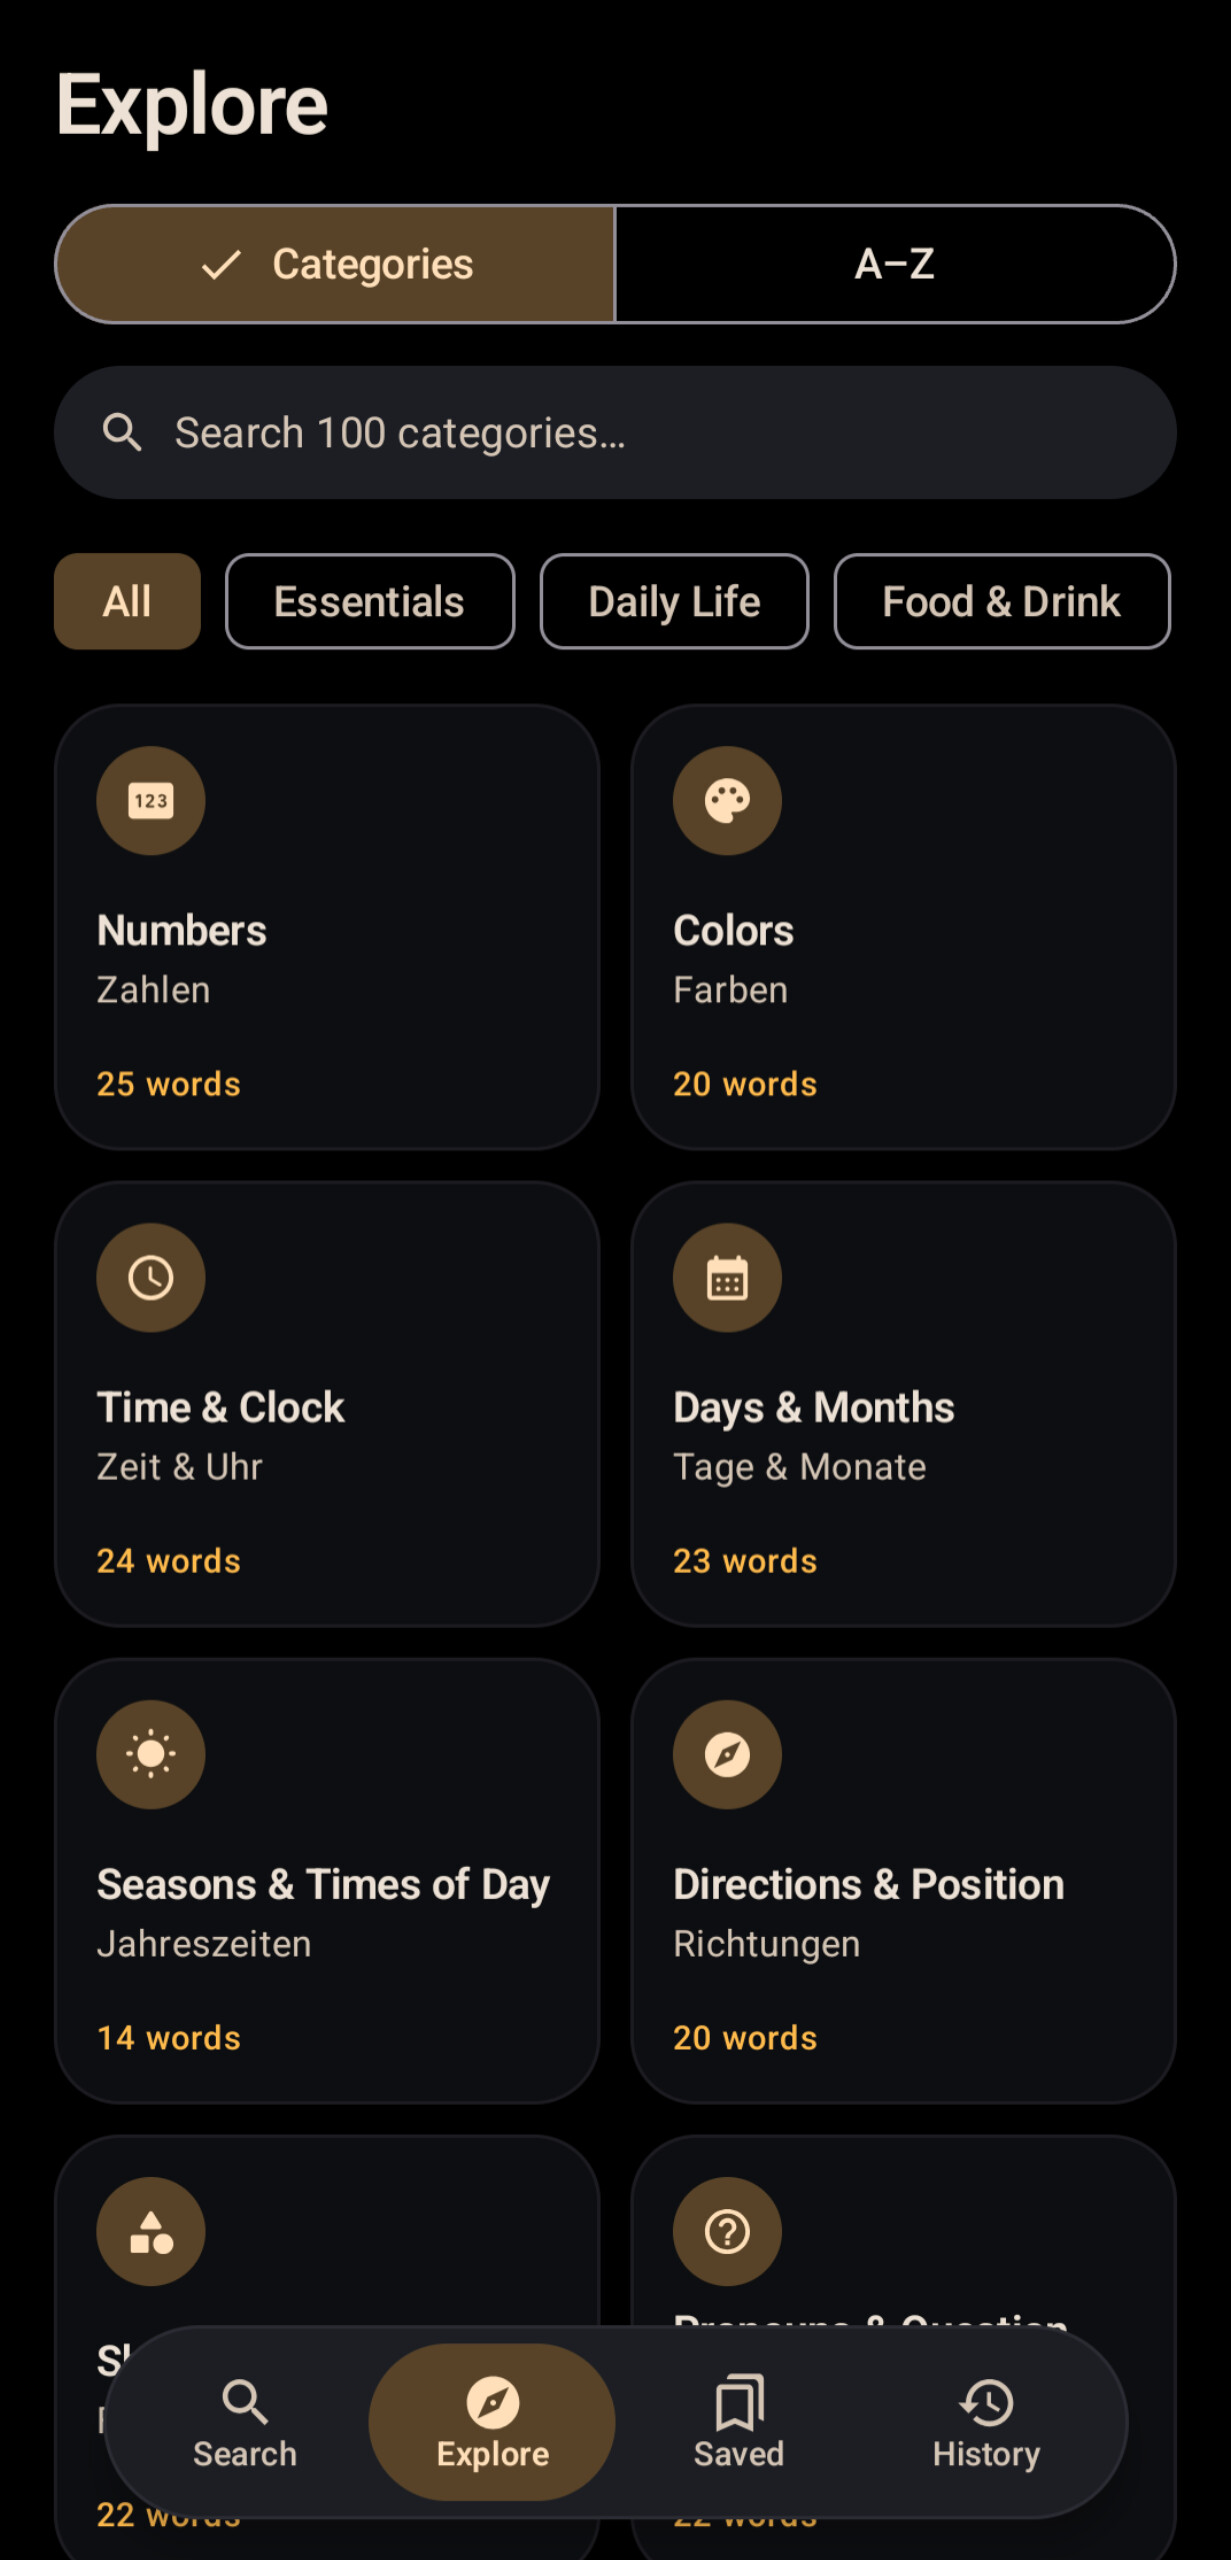
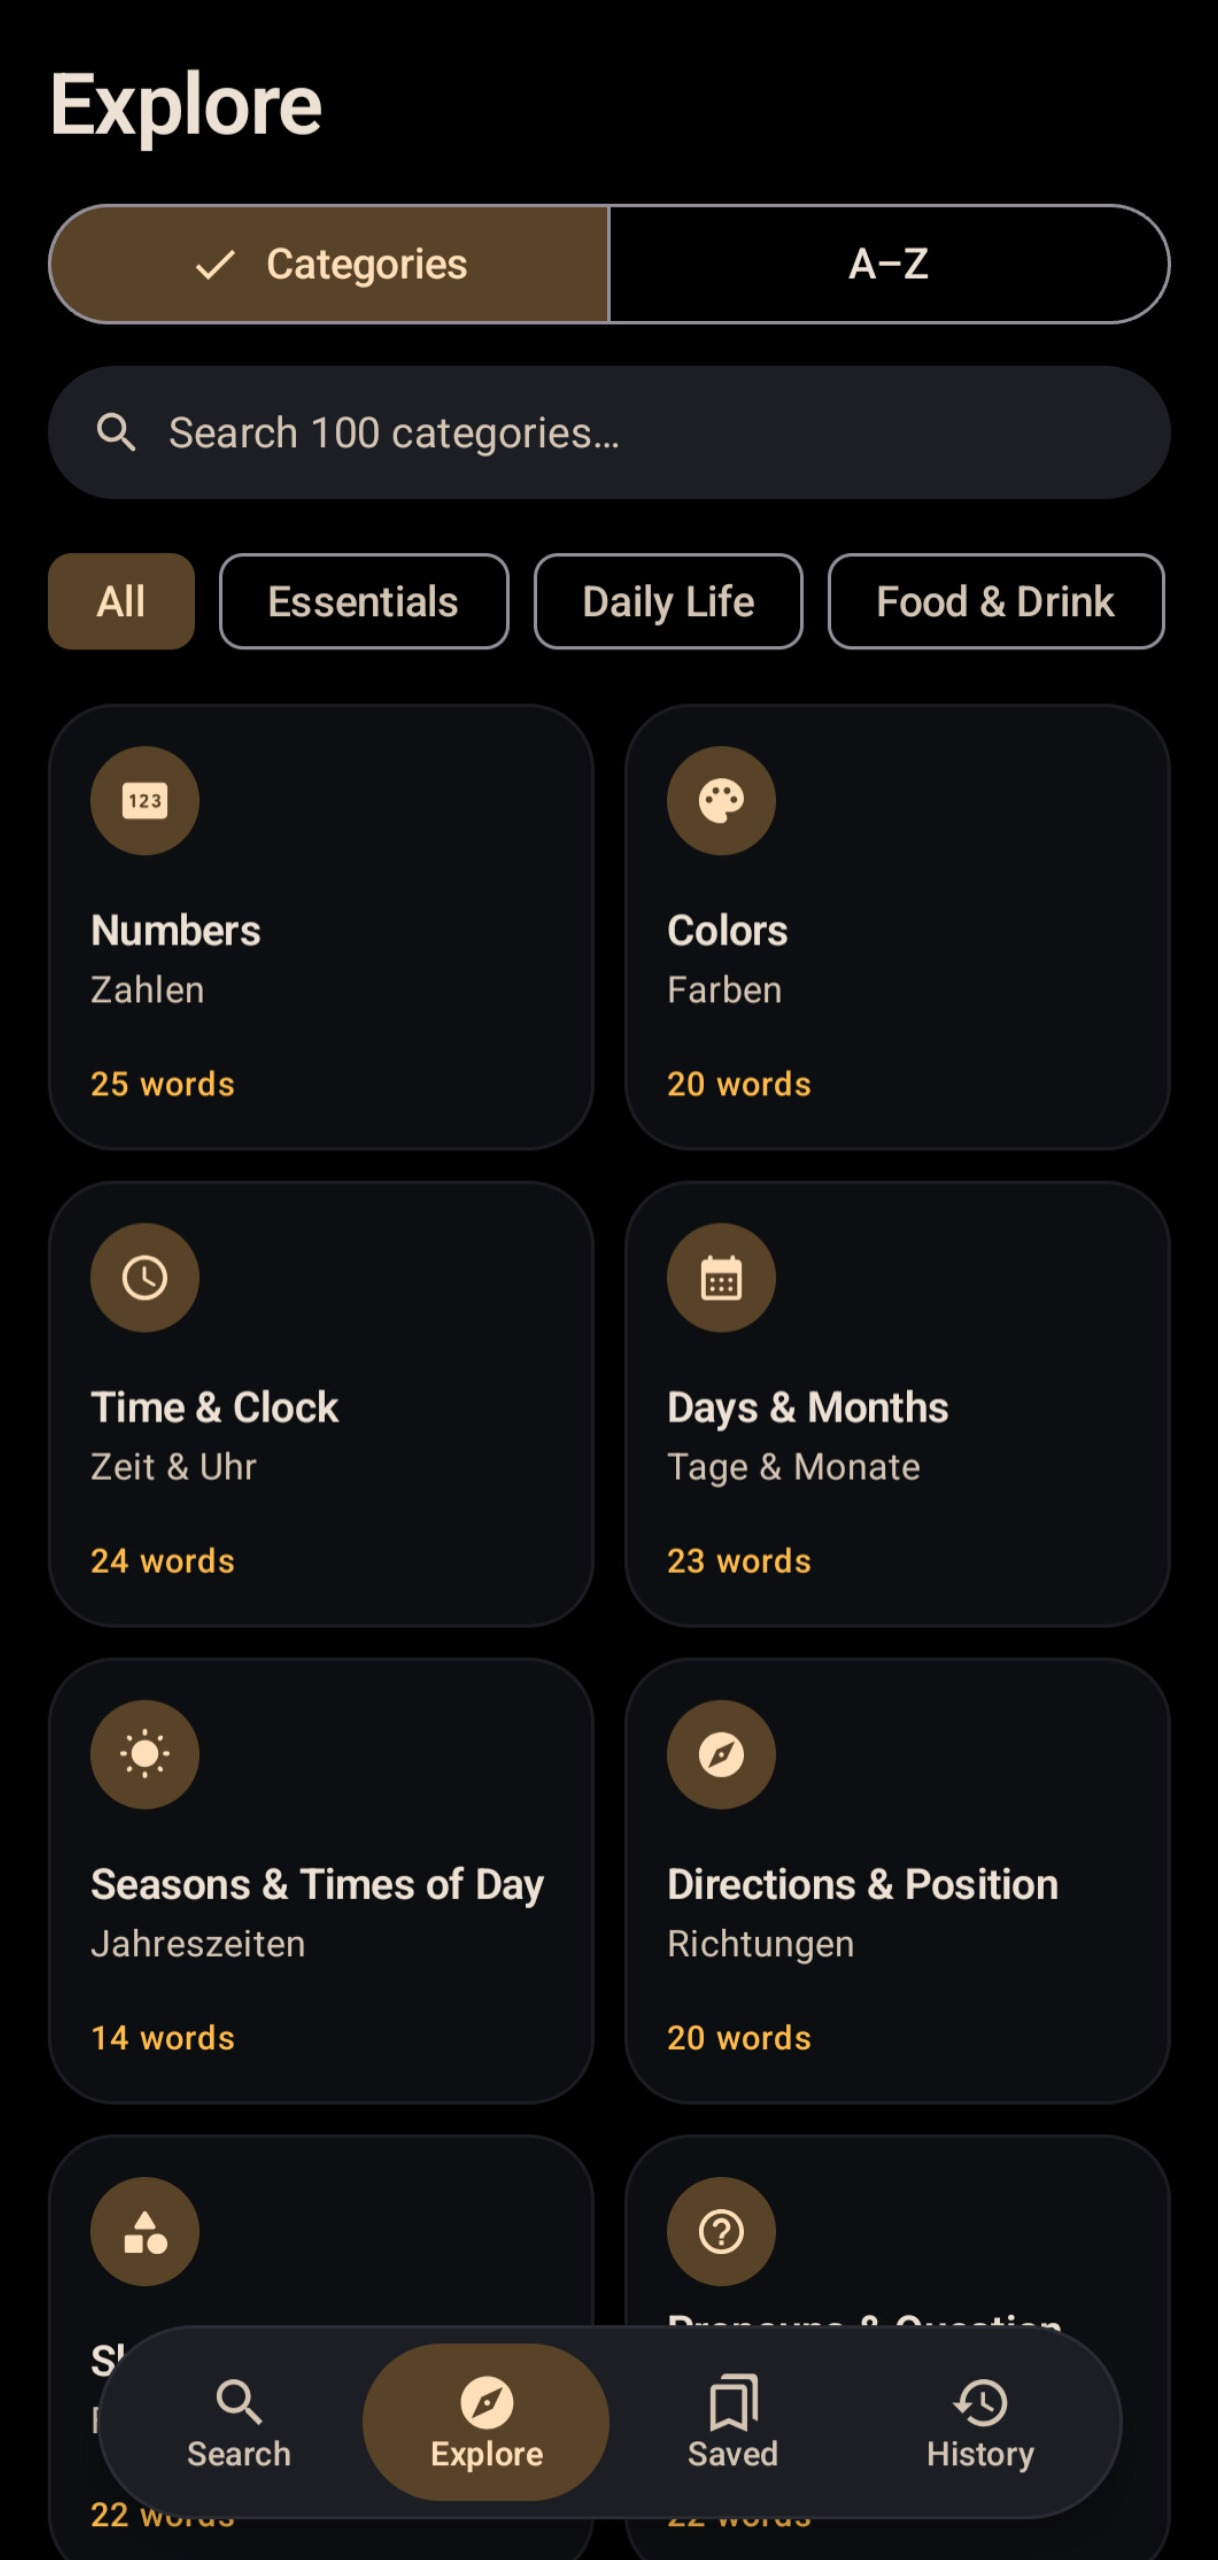
Normalize screenshot dimensions to uniform 1218x2560

diff --git a/README.md b/README.md
@@ -23,11 +23,11 @@
 
 | Home & Word of the Day | 100 Categories & A–Z | Saved & Gender Ratio |
 | :---: | :---: | :---: |
-| <img src="docs/screenshots/1.jpg" width="240" /> | <img src="docs/screenshots/2.jpg" width="240" /> | <img src="docs/screenshots/3.jpg" width="240" /> |
+| <img src="docs/screenshots/1.jpg" width="240" height="504" /> | <img src="docs/screenshots/2.jpg" width="240" height="504" /> | <img src="docs/screenshots/3.jpg" width="240" height="504" /> |
 
 | Sentence Translation | Word Details & Kasus | History & Translation Log |
 | :---: | :---: | :---: |
-| <img src="docs/screenshots/4.jpg" width="240" /> | <img src="docs/screenshots/5.jpg" width="240" /> | <img src="docs/screenshots/6.jpg" width="240" /> |
+| <img src="docs/screenshots/4.jpg" width="240" height="504" /> | <img src="docs/screenshots/5.jpg" width="240" height="504" /> | <img src="docs/screenshots/6.jpg" width="240" height="504" /> |
 
 ---
 
